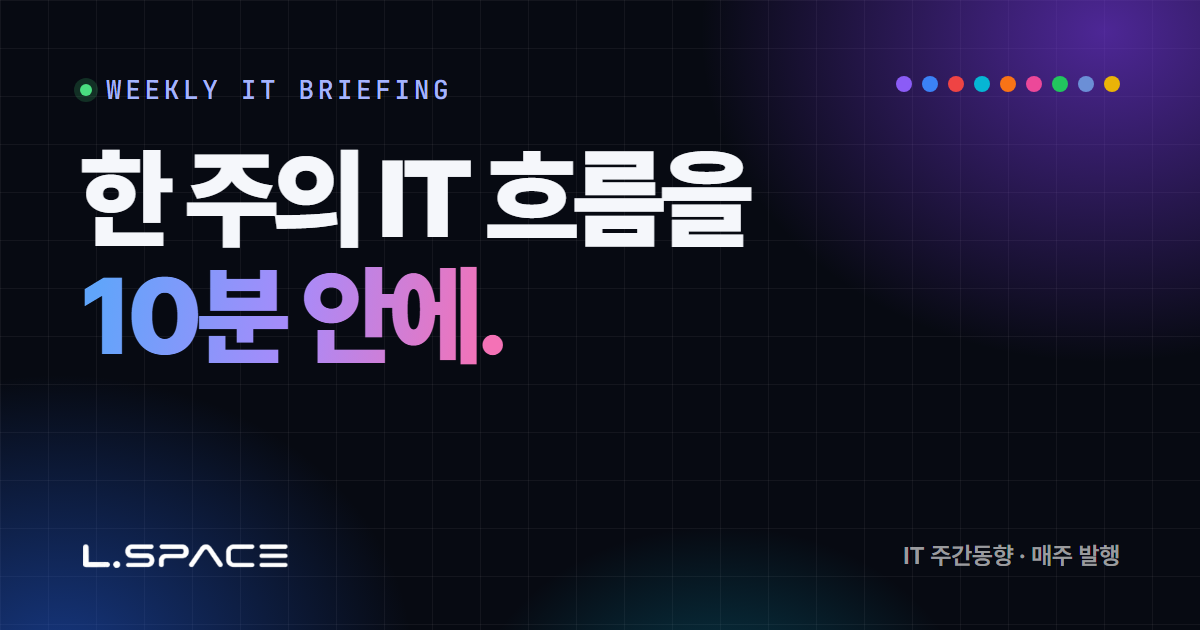
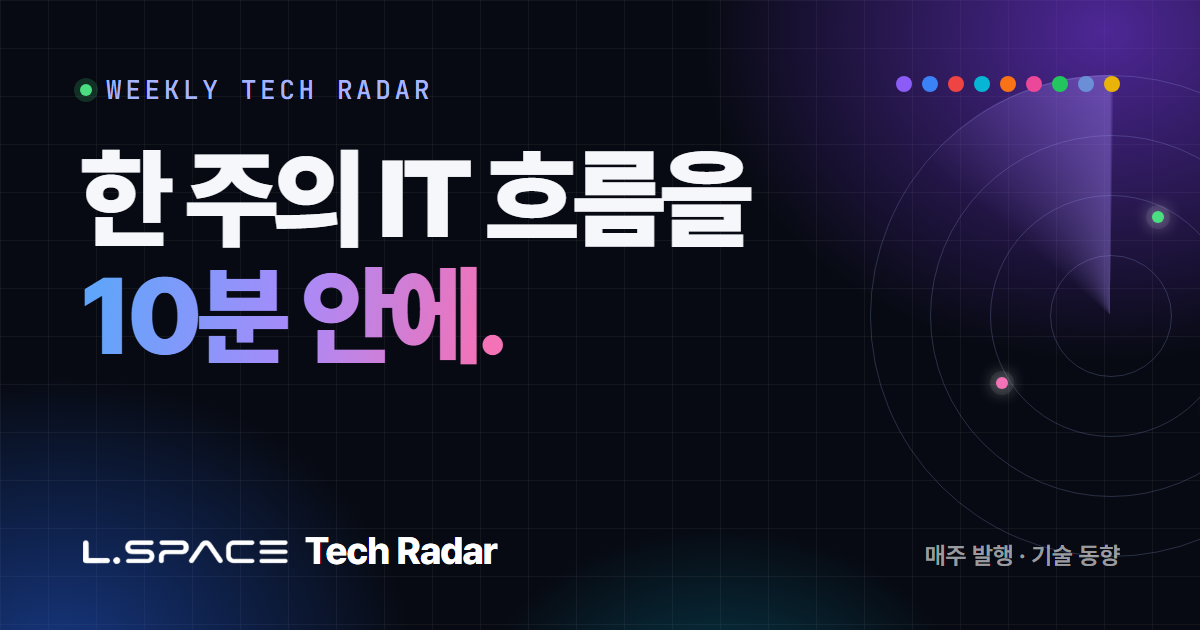
사이트명 L.SPACE Tech Radar 로 변경
- 헤더·푸터·페이지 제목·og:title/site_name·문서의 이름 변경
- 홈 eyebrow·설명과 공유 설명을 브랜드 방향(제조·조선 AX 포함 기술 변화 탐색)에 맞게 수정
- 공유 이미지(og-cover.png): WEEKLY TECH RADAR, 레이더 그래픽, L.SPACE Tech Radar 표기

diff --git a/index.html b/index.html
@@ -3,17 +3,17 @@
 <head>
   <meta charset="UTF-8">
   <meta name="viewport" content="width=device-width, initial-scale=1">
-  <title>IT 주간동향</title>
-  <meta name="description" content="AI·빅테크·보안·클라우드·조선 등 한 주의 IT 핵심 뉴스를 카드로 정리합니다.">
+  <title>L.SPACE Tech Radar</title>
+  <meta name="description" content="AI부터 제조·조선 AX, 클라우드, 보안, 개발도구까지 — L.SPACE가 매주 기술 변화를 탐색하고 정리합니다.">
   <meta property="og:type" content="website">
-  <meta property="og:site_name" content="IT 주간동향">
-  <meta property="og:title" content="IT 주간동향">
-  <meta property="og:description" content="AI·빅테크·보안·클라우드·조선 등 한 주의 IT 핵심 뉴스를 카드로 정리합니다.">
+  <meta property="og:site_name" content="L.SPACE Tech Radar">
+  <meta property="og:title" content="L.SPACE Tech Radar">
+  <meta property="og:description" content="AI부터 제조·조선 AX, 클라우드, 보안, 개발도구까지 — L.SPACE가 매주 기술 변화를 탐색하고 정리합니다.">
   <meta property="og:url" content="https://lspace-next.github.io/WeeklyNews/">
   <meta property="og:image" content="https://lspace-next.github.io/WeeklyNews/assets/images/og-cover.png">
   <meta property="og:image:width" content="1200">
   <meta property="og:image:height" content="630">
-  <meta property="og:image:alt" content="WEEKLY IT BRIEFING — 한 주의 IT 흐름을 10분 안에.">
+  <meta property="og:image:alt" content="L.SPACE Tech Radar — 한 주의 IT 흐름을 10분 안에.">
   <meta name="twitter:card" content="summary_large_image">
   <meta name="twitter:image" content="https://lspace-next.github.io/WeeklyNews/assets/images/og-cover.png">
   <meta name="theme-color" content="#ffffff" media="(prefers-color-scheme: light)">
@@ -27,16 +27,16 @@
 <body data-root="">
   <header class="site-header">
     <div class="wrap">
-      <a class="brand" href="index.html"><img class="brand-logo" src="assets/images/profile_lspace.jpg" alt="L.SPACE" width="30" height="30">IT 주간동향</a>
+      <a class="brand" href="index.html"><img class="brand-logo" src="assets/images/profile_lspace.jpg" alt="L.SPACE" width="30" height="30"><span><span class="brand-sub">L.SPACE</span> Tech Radar</span></a>
       <nav class="nav"><a href="index.html" aria-current="page">홈</a><a href="archive.html">아카이브</a></nav>
     </div>
   </header>
 
   <main class="wrap">
     <section class="home-intro">
-      <p class="eyebrow">WEEKLY IT BRIEFING</p>
+      <p class="eyebrow">L.SPACE TECH RADAR · WEEKLY</p>
       <h1 class="display">한 주의 IT 흐름을<br><em>10분 안에.</em></h1>
-      <p class="page-desc">AI · 빅테크 · 보안 · 클라우드 · 반도체 · 조선·해양 · 국내 IT 소식을 매주 정리합니다.</p>
+      <p class="page-desc">AI부터 제조·조선 AX, 클라우드, 보안, 개발도구까지. 공신력 있는 출처에서 이번 주 놓치면 안 될 기술 변화를 골라, 무엇이 왜 중요한지 L.SPACE가 매주 정리합니다.</p>
       <div class="stats" id="stats"></div>
     </section>
 
@@ -50,7 +50,7 @@
     <div class="wrap">
       <div class="footer-brand">
         <img class="footer-logo" src="assets/images/lspace_logo.png" alt="L.SPACE" width="114" height="16">
-        <span>IT 주간동향 · 매주 발행</span>
+        <span>Tech Radar · 매주 발행</span>
       </div>
       <span>각 기사의 저작권은 원문 출처에 있습니다.</span>
     </div>

diff --git a/archive.html b/archive.html
@@ -3,17 +3,17 @@
 <head>
   <meta charset="UTF-8">
   <meta name="viewport" content="width=device-width, initial-scale=1">
-  <title>아카이브 · IT 주간동향</title>
-  <meta name="description" content="IT 주간동향 지난 호 전체 목록">
+  <title>아카이브 · L.SPACE Tech Radar</title>
+  <meta name="description" content="L.SPACE Tech Radar 지난 호 전체 목록">
   <meta property="og:type" content="website">
-  <meta property="og:site_name" content="IT 주간동향">
-  <meta property="og:title" content="아카이브 · IT 주간동향">
-  <meta property="og:description" content="IT 주간동향 지난 호 전체 목록">
+  <meta property="og:site_name" content="L.SPACE Tech Radar">
+  <meta property="og:title" content="아카이브 · L.SPACE Tech Radar">
+  <meta property="og:description" content="L.SPACE Tech Radar 지난 호 전체 목록">
   <meta property="og:url" content="https://lspace-next.github.io/WeeklyNews/archive.html">
   <meta property="og:image" content="https://lspace-next.github.io/WeeklyNews/assets/images/og-cover.png">
   <meta property="og:image:width" content="1200">
   <meta property="og:image:height" content="630">
-  <meta property="og:image:alt" content="WEEKLY IT BRIEFING — 한 주의 IT 흐름을 10분 안에.">
+  <meta property="og:image:alt" content="L.SPACE Tech Radar — 한 주의 IT 흐름을 10분 안에.">
   <meta name="twitter:card" content="summary_large_image">
   <meta name="twitter:image" content="https://lspace-next.github.io/WeeklyNews/assets/images/og-cover.png">
   <meta name="theme-color" content="#ffffff" media="(prefers-color-scheme: light)">
@@ -27,7 +27,7 @@
 <body data-root="">
   <header class="site-header">
     <div class="wrap">
-      <a class="brand" href="index.html"><img class="brand-logo" src="assets/images/profile_lspace.jpg" alt="L.SPACE" width="30" height="30">IT 주간동향</a>
+      <a class="brand" href="index.html"><img class="brand-logo" src="assets/images/profile_lspace.jpg" alt="L.SPACE" width="30" height="30"><span><span class="brand-sub">L.SPACE</span> Tech Radar</span></a>
       <nav class="nav"><a href="index.html">홈</a><a href="archive.html" aria-current="page">아카이브</a></nav>
     </div>
   </header>
@@ -36,7 +36,7 @@
     <section class="page-head">
       <p class="eyebrow">ARCHIVE</p>
       <h1 class="page-title">지난 호 전체</h1>
-      <p class="page-desc">연도·월별로 정리된 모든 주간동향입니다.</p>
+      <p class="page-desc">연도·월별로 정리된 모든 호입니다.</p>
     </section>
     <div id="archive"></div>
   </main>
@@ -45,7 +45,7 @@
     <div class="wrap">
       <div class="footer-brand">
         <img class="footer-logo" src="assets/images/lspace_logo.png" alt="L.SPACE" width="114" height="16">
-        <span>IT 주간동향 · 매주 발행</span>
+        <span>Tech Radar · 매주 발행</span>
       </div>
       <span>각 기사의 저작권은 원문 출처에 있습니다.</span>
     </div>

diff --git a/archive/2026/10/week2.html b/archive/2026/10/week2.html
@@ -3,17 +3,17 @@
 <head>
   <meta charset="UTF-8">
   <meta name="viewport" content="width=device-width, initial-scale=1">
-  <title>2026년 10월 2주차 · IT 주간동향</title>
+  <title>2026년 10월 2주차 · L.SPACE Tech Radar</title>
   <meta name="description" content="GPT-6 전면 개방과 Haiku 5.5 출시, 삼성전자 영업이익 107조 원, AI 해킹 도구의 금융권 공격까지 — AI가 실적·PC·보안을 동시에 흔든 한 주">
   <meta property="og:type" content="article">
-  <meta property="og:site_name" content="IT 주간동향">
-  <meta property="og:title" content="2026년 10월 2주차 · IT 주간동향">
+  <meta property="og:site_name" content="L.SPACE Tech Radar">
+  <meta property="og:title" content="2026년 10월 2주차 · L.SPACE Tech Radar">
   <meta property="og:description" content="GPT-6 전면 개방과 Haiku 5.5 출시, 삼성전자 영업이익 107조 원, AI 해킹 도구의 금융권 공격까지 — AI가 실적·PC·보안을 동시에 흔든 한 주">
   <meta property="og:url" content="https://lspace-next.github.io/WeeklyNews/archive/2026/10/week2.html">
   <meta property="og:image" content="https://lspace-next.github.io/WeeklyNews/assets/images/og-cover.png">
   <meta property="og:image:width" content="1200">
   <meta property="og:image:height" content="630">
-  <meta property="og:image:alt" content="WEEKLY IT BRIEFING — 한 주의 IT 흐름을 10분 안에.">
+  <meta property="og:image:alt" content="L.SPACE Tech Radar — 한 주의 IT 흐름을 10분 안에.">
   <meta name="twitter:card" content="summary_large_image">
   <meta name="twitter:image" content="https://lspace-next.github.io/WeeklyNews/assets/images/og-cover.png">
   <meta name="theme-color" content="#ffffff" media="(prefers-color-scheme: light)">
@@ -27,7 +27,7 @@
 <body data-root="../../../" data-issue="2026-10-w2">
   <header class="site-header">
     <div class="wrap">
-      <a class="brand" href="../../../index.html"><img class="brand-logo" src="../../../assets/images/profile_lspace.jpg" alt="L.SPACE" width="30" height="30">IT 주간동향</a>
+      <a class="brand" href="../../../index.html"><img class="brand-logo" src="../../../assets/images/profile_lspace.jpg" alt="L.SPACE" width="30" height="30"><span><span class="brand-sub">L.SPACE</span> Tech Radar</span></a>
       <nav class="nav"><a href="../../../index.html">홈</a><a href="../../../archive.html">아카이브</a></nav>
     </div>
   </header>
@@ -322,7 +322,7 @@
     <div class="wrap">
       <div class="footer-brand">
         <img class="footer-logo" src="../../../assets/images/lspace_logo.png" alt="L.SPACE" width="114" height="16">
-        <span>IT 주간동향 · 매주 발행</span>
+        <span>Tech Radar · 매주 발행</span>
       </div>
       <span>각 기사의 저작권은 원문 출처에 있습니다.</span>
     </div>

diff --git a/archive/2026/10/week1.html b/archive/2026/10/week1.html
@@ -3,17 +3,17 @@
 <head>
   <meta charset="UTF-8">
   <meta name="viewport" content="width=device-width, initial-scale=1">
-  <title>2026년 10월 1주차 · IT 주간동향</title>
+  <title>2026년 10월 1주차 · L.SPACE Tech Radar</title>
   <meta name="description" content="Gemini 4 Argon과 GPT-6.1 Sol의 맞대결, 은행에서 저축은행으로 번진 금융권 연쇄 해킹, 로컬 AI 하드웨어 경쟁까지 — 9월 마지막 주 IT 흐름">
   <meta property="og:type" content="article">
-  <meta property="og:site_name" content="IT 주간동향">
-  <meta property="og:title" content="2026년 10월 1주차 · IT 주간동향">
+  <meta property="og:site_name" content="L.SPACE Tech Radar">
+  <meta property="og:title" content="2026년 10월 1주차 · L.SPACE Tech Radar">
   <meta property="og:description" content="Gemini 4 Argon과 GPT-6.1 Sol의 맞대결, 은행에서 저축은행으로 번진 금융권 연쇄 해킹, 로컬 AI 하드웨어 경쟁까지 — 9월 마지막 주 IT 흐름">
   <meta property="og:url" content="https://lspace-next.github.io/WeeklyNews/archive/2026/10/week1.html">
   <meta property="og:image" content="https://lspace-next.github.io/WeeklyNews/assets/images/og-cover.png">
   <meta property="og:image:width" content="1200">
   <meta property="og:image:height" content="630">
-  <meta property="og:image:alt" content="WEEKLY IT BRIEFING — 한 주의 IT 흐름을 10분 안에.">
+  <meta property="og:image:alt" content="L.SPACE Tech Radar — 한 주의 IT 흐름을 10분 안에.">
   <meta name="twitter:card" content="summary_large_image">
   <meta name="twitter:image" content="https://lspace-next.github.io/WeeklyNews/assets/images/og-cover.png">
   <meta name="theme-color" content="#ffffff" media="(prefers-color-scheme: light)">
@@ -27,7 +27,7 @@
 <body data-root="../../../" data-issue="2026-10-w1">
   <header class="site-header">
     <div class="wrap">
-      <a class="brand" href="../../../index.html"><img class="brand-logo" src="../../../assets/images/profile_lspace.jpg" alt="L.SPACE" width="30" height="30">IT 주간동향</a>
+      <a class="brand" href="../../../index.html"><img class="brand-logo" src="../../../assets/images/profile_lspace.jpg" alt="L.SPACE" width="30" height="30"><span><span class="brand-sub">L.SPACE</span> Tech Radar</span></a>
       <nav class="nav"><a href="../../../index.html">홈</a><a href="../../../archive.html">아카이브</a></nav>
     </div>
   </header>
@@ -277,7 +277,7 @@
     <div class="wrap">
       <div class="footer-brand">
         <img class="footer-logo" src="../../../assets/images/lspace_logo.png" alt="L.SPACE" width="114" height="16">
-        <span>IT 주간동향 · 매주 발행</span>
+        <span>Tech Radar · 매주 발행</span>
       </div>
       <span>각 기사의 저작권은 원문 출처에 있습니다.</span>
     </div>

diff --git a/404.html b/404.html
@@ -3,17 +3,17 @@
 <head>
   <meta charset="UTF-8">
   <meta name="viewport" content="width=device-width, initial-scale=1">
-  <title>페이지를 찾을 수 없음 · IT 주간동향</title>
+  <title>페이지를 찾을 수 없음 · L.SPACE Tech Radar</title>
   <meta name="description" content="404">
   <meta property="og:type" content="website">
-  <meta property="og:site_name" content="IT 주간동향">
-  <meta property="og:title" content="페이지를 찾을 수 없음 · IT 주간동향">
+  <meta property="og:site_name" content="L.SPACE Tech Radar">
+  <meta property="og:title" content="페이지를 찾을 수 없음 · L.SPACE Tech Radar">
   <meta property="og:description" content="404">
   <meta property="og:url" content="https://lspace-next.github.io/WeeklyNews/404.html">
   <meta property="og:image" content="https://lspace-next.github.io/WeeklyNews/assets/images/og-cover.png">
   <meta property="og:image:width" content="1200">
   <meta property="og:image:height" content="630">
-  <meta property="og:image:alt" content="WEEKLY IT BRIEFING — 한 주의 IT 흐름을 10분 안에.">
+  <meta property="og:image:alt" content="L.SPACE Tech Radar — 한 주의 IT 흐름을 10분 안에.">
   <meta name="twitter:card" content="summary_large_image">
   <meta name="twitter:image" content="https://lspace-next.github.io/WeeklyNews/assets/images/og-cover.png">
   <meta name="theme-color" content="#ffffff" media="(prefers-color-scheme: light)">
@@ -27,7 +27,7 @@
 <body data-root="/WeeklyNews/">
   <header class="site-header">
     <div class="wrap">
-      <a class="brand" href="/WeeklyNews/"><img class="brand-logo" src="/WeeklyNews/assets/images/profile_lspace.jpg" alt="L.SPACE" width="30" height="30">IT 주간동향</a>
+      <a class="brand" href="/WeeklyNews/"><img class="brand-logo" src="/WeeklyNews/assets/images/profile_lspace.jpg" alt="L.SPACE" width="30" height="30"><span><span class="brand-sub">L.SPACE</span> Tech Radar</span></a>
       <nav class="nav"><a href="/WeeklyNews/">홈</a><a href="/WeeklyNews/archive.html">아카이브</a></nav>
     </div>
   </header>
@@ -44,7 +44,7 @@
     <div class="wrap">
       <div class="footer-brand">
         <img class="footer-logo" src="/WeeklyNews/assets/images/lspace_logo.png" alt="L.SPACE" width="114" height="16">
-        <span>IT 주간동향 · 매주 발행</span>
+        <span>Tech Radar · 매주 발행</span>
       </div>
       <span>각 기사의 저작권은 원문 출처에 있습니다.</span>
     </div>

diff --git a/templates/issue.html b/templates/issue.html
@@ -25,17 +25,17 @@
 <head>
   <meta charset="UTF-8">
   <meta name="viewport" content="width=device-width, initial-scale=1">
-  <title>{{LABEL}} · IT 주간동향</title>
+  <title>{{LABEL}} · L.SPACE Tech Radar</title>
   <meta name="description" content="{{HEADLINE}}">
   <meta property="og:type" content="article">
-  <meta property="og:site_name" content="IT 주간동향">
-  <meta property="og:title" content="{{LABEL}} · IT 주간동향">
+  <meta property="og:site_name" content="L.SPACE Tech Radar">
+  <meta property="og:title" content="{{LABEL}} · L.SPACE Tech Radar">
   <meta property="og:description" content="{{HEADLINE}}">
   <meta property="og:url" content="{{SITE_URL}}/{{PATH}}">
   <meta property="og:image" content="{{SITE_URL}}/assets/images/og-cover.png">
   <meta property="og:image:width" content="1200">
   <meta property="og:image:height" content="630">
-  <meta property="og:image:alt" content="WEEKLY IT BRIEFING — 한 주의 IT 흐름을 10분 안에.">
+  <meta property="og:image:alt" content="L.SPACE Tech Radar — 한 주의 IT 흐름을 10분 안에.">
   <meta name="twitter:card" content="summary_large_image">
   <meta name="twitter:image" content="{{SITE_URL}}/assets/images/og-cover.png">
   <meta name="theme-color" content="#ffffff" media="(prefers-color-scheme: light)">
@@ -49,7 +49,7 @@
 <body data-root="../../../" data-issue="{{ID}}">
   <header class="site-header">
     <div class="wrap">
-      <a class="brand" href="../../../index.html"><img class="brand-logo" src="../../../assets/images/profile_lspace.jpg" alt="L.SPACE" width="30" height="30">IT 주간동향</a>
+      <a class="brand" href="../../../index.html"><img class="brand-logo" src="../../../assets/images/profile_lspace.jpg" alt="L.SPACE" width="30" height="30"><span><span class="brand-sub">L.SPACE</span> Tech Radar</span></a>
       <nav class="nav"><a href="../../../index.html">홈</a><a href="../../../archive.html">아카이브</a></nav>
     </div>
   </header>
@@ -119,7 +119,7 @@
     <div class="wrap">
       <div class="footer-brand">
         <img class="footer-logo" src="../../../assets/images/lspace_logo.png" alt="L.SPACE" width="114" height="16">
-        <span>IT 주간동향 · 매주 발행</span>
+        <span>Tech Radar · 매주 발행</span>
       </div>
       <span>각 기사의 저작권은 원문 출처에 있습니다.</span>
     </div>

diff --git a/assets/css/style.css b/assets/css/style.css
@@ -1,4 +1,4 @@
-/* IT 주간동향 — single stylesheet (light / dark)
+/* L.SPACE Tech Radar — single stylesheet (light / dark)
    Bento card grid & hover-lift pattern adapted from 21st.dev "Bento Grid" (kokonutd, aceternity). */
 
 :root {
@@ -144,6 +144,7 @@ a:hover { color: var(--accent); }
   letter-spacing: -0.02em;
 }
 .brand:hover { color: var(--text); }
+.brand-sub { font-weight: 500; color: var(--text-sub); }
 .brand-logo {
   width: 30px;
   height: 30px;

diff --git a/assets/js/main.js b/assets/js/main.js
@@ -1,4 +1,4 @@
-// IT 주간동향 — renders issue lists from data/issues.json and wires the category filter.
+// L.SPACE Tech Radar — renders issue lists from data/issues.json and wires the category filter.
 // Each page sets <body data-root="..."> (relative path to the site root) so links work at any depth.
 
 (function () {

diff --git a/.claude/commands/weekly.md b/.claude/commands/weekly.md
@@ -1,9 +1,9 @@
 ---
-description: 이번 주 IT 주간동향 호를 조사·작성·발행 준비한다
+description: 이번 주 L.SPACE Tech Radar 호를 조사·작성·발행 준비한다
 argument-hint: "[YYYY-MM-DD 발행일 (생략 시 오늘)]"
 ---
 
-CLAUDE.md 의 규칙을 따라 IT 주간동향 한 호를 만든다. 발행일: $ARGUMENTS (비어 있으면 오늘).
+CLAUDE.md 의 규칙을 따라 L.SPACE Tech Radar 한 호를 만든다. 발행일: $ARGUMENTS (비어 있으면 오늘).
 
 1. **주차 계산**: CLAUDE.md "주차 규칙"으로 라벨·id·파일 경로·수집 기간(직전 주 월~일)을 정한다. `data/issues.json` 에 같은 id가 있으면 멈추고 사용자에게 묻는다.
 

diff --git a/CLAUDE.md b/CLAUDE.md
@@ -1,6 +1,6 @@
-# IT 주간동향 (WeeklyNews)
+# L.SPACE Tech Radar (WeeklyNews)
 
-매주 IT 핵심 뉴스를 카드 형식으로 정리해 GitHub Pages(프로젝트 사이트)에 발행하는 정적 사이트.
+L.SPACE의 주간 기술 동향 콘텐츠. 매주 AI·제조/조선 AX·클라우드·보안·개발도구 등 기술 변화를 카드 형식으로 정리해 GitHub Pages(프로젝트 사이트)에 발행하는 정적 사이트.
 빌드 도구 없음. HTML/CSS/JS를 그대로 배포한다. 매주 발행은 `/weekly` 커맨드(`.claude/commands/weekly.md`)로 수행한다.
 
 - **SITE_URL**: `https://lspace-next.github.io/WeeklyNews`

diff --git a/README.md b/README.md
@@ -1,4 +1,4 @@
-# IT 주간동향
+# L.SPACE Tech Radar
 
 https://lspace-next.github.io/WeeklyNews/
 
